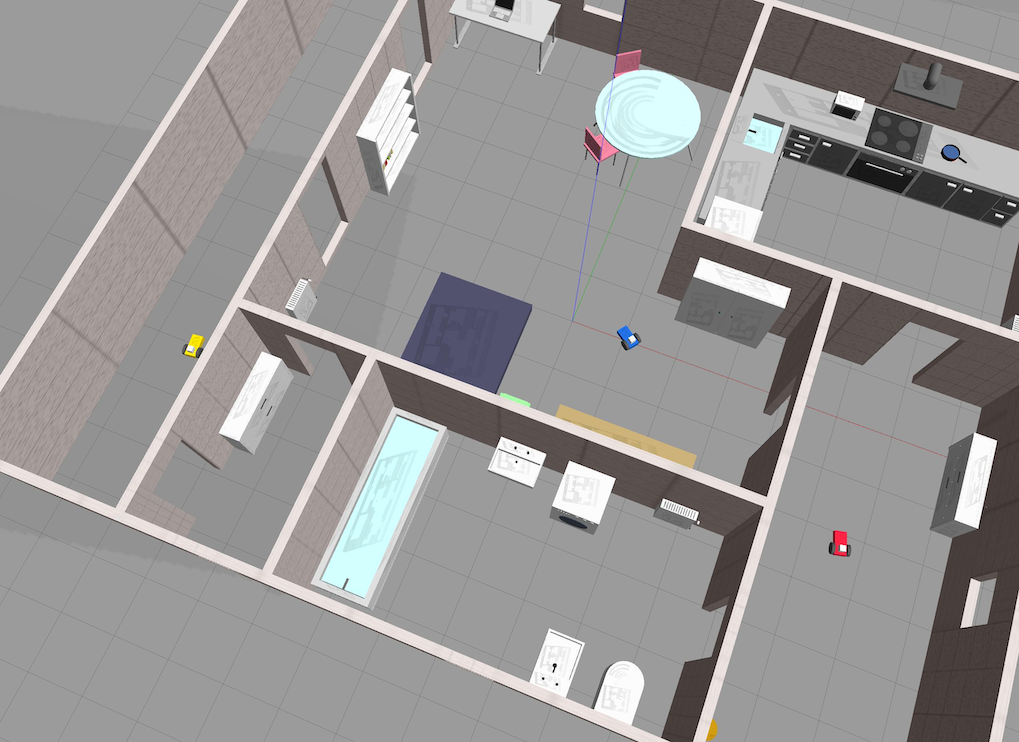
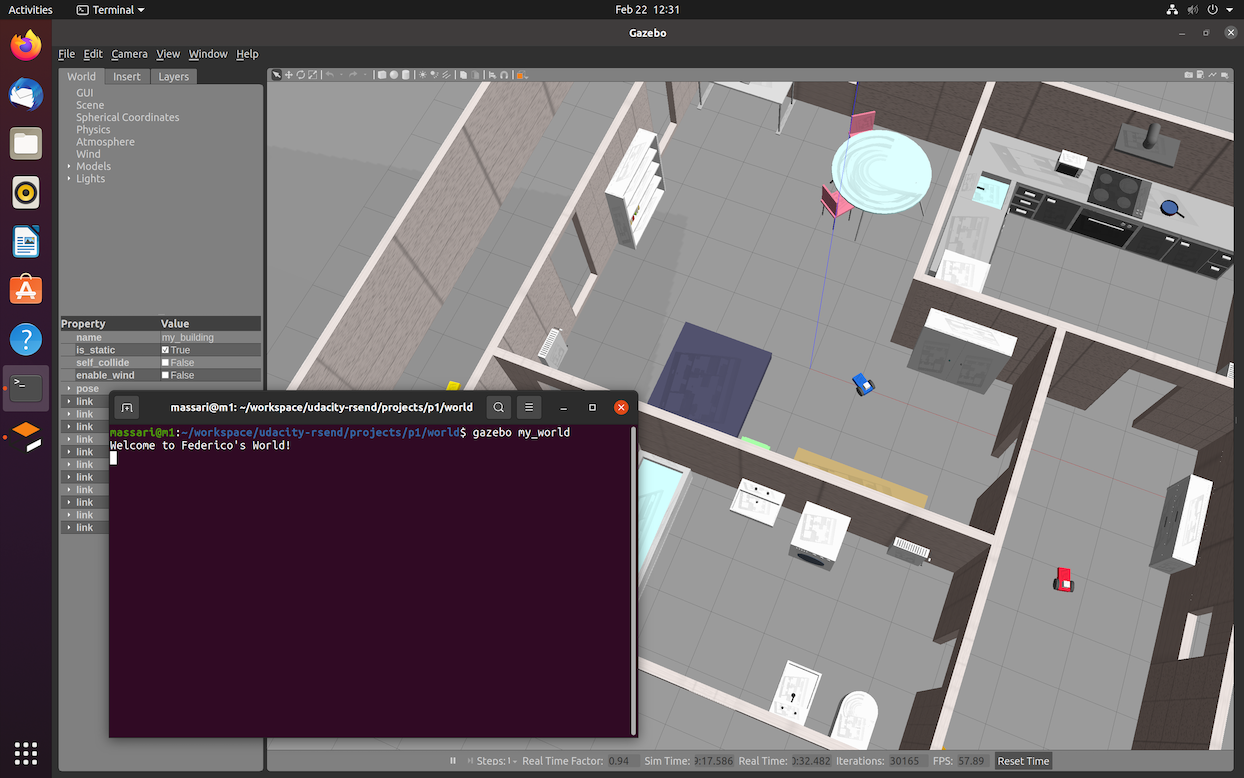
docs: Add p1 project screenshot to README.md

diff --git a/README.md b/README.md
@@ -48,3 +48,7 @@ $ gazebo my_world
 ### Add Custom Models in Gazebo
 
 Add path `/home/$whoami/workspace/udacity-rsend/projects/p1/model` in Gazebo to insert additional instances of the models into the world.
+
+### Output
+
+<td align="center"><img align="center" src="./projects/p1/img/img2.png"/></td>
